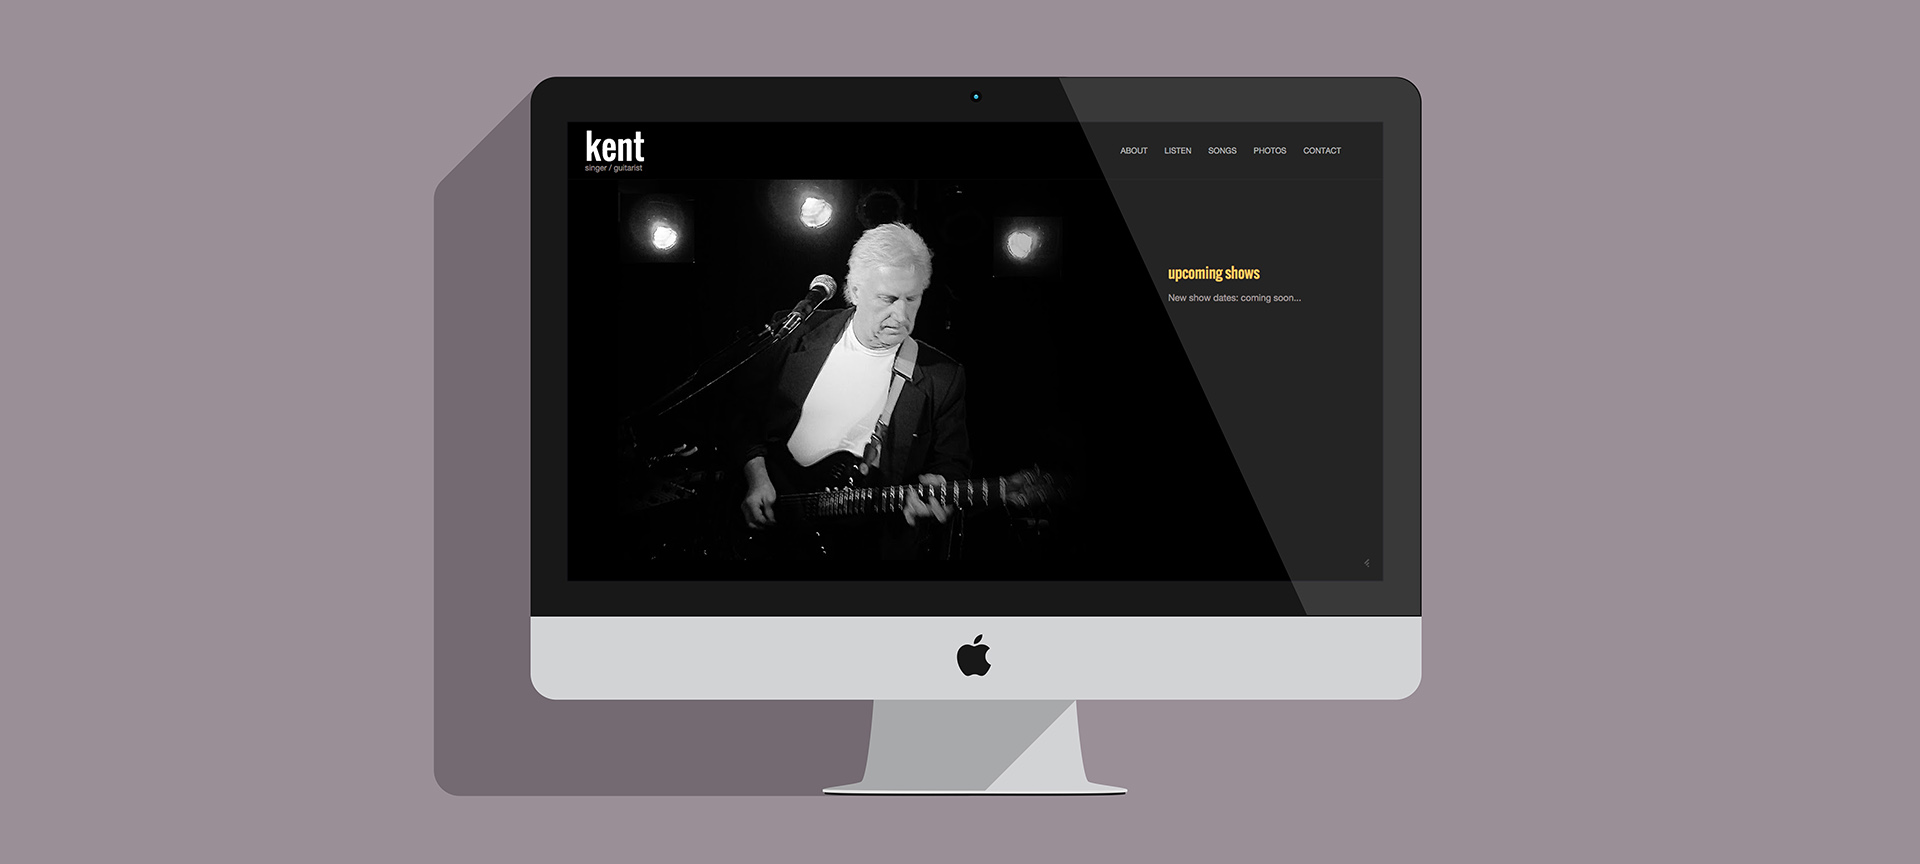
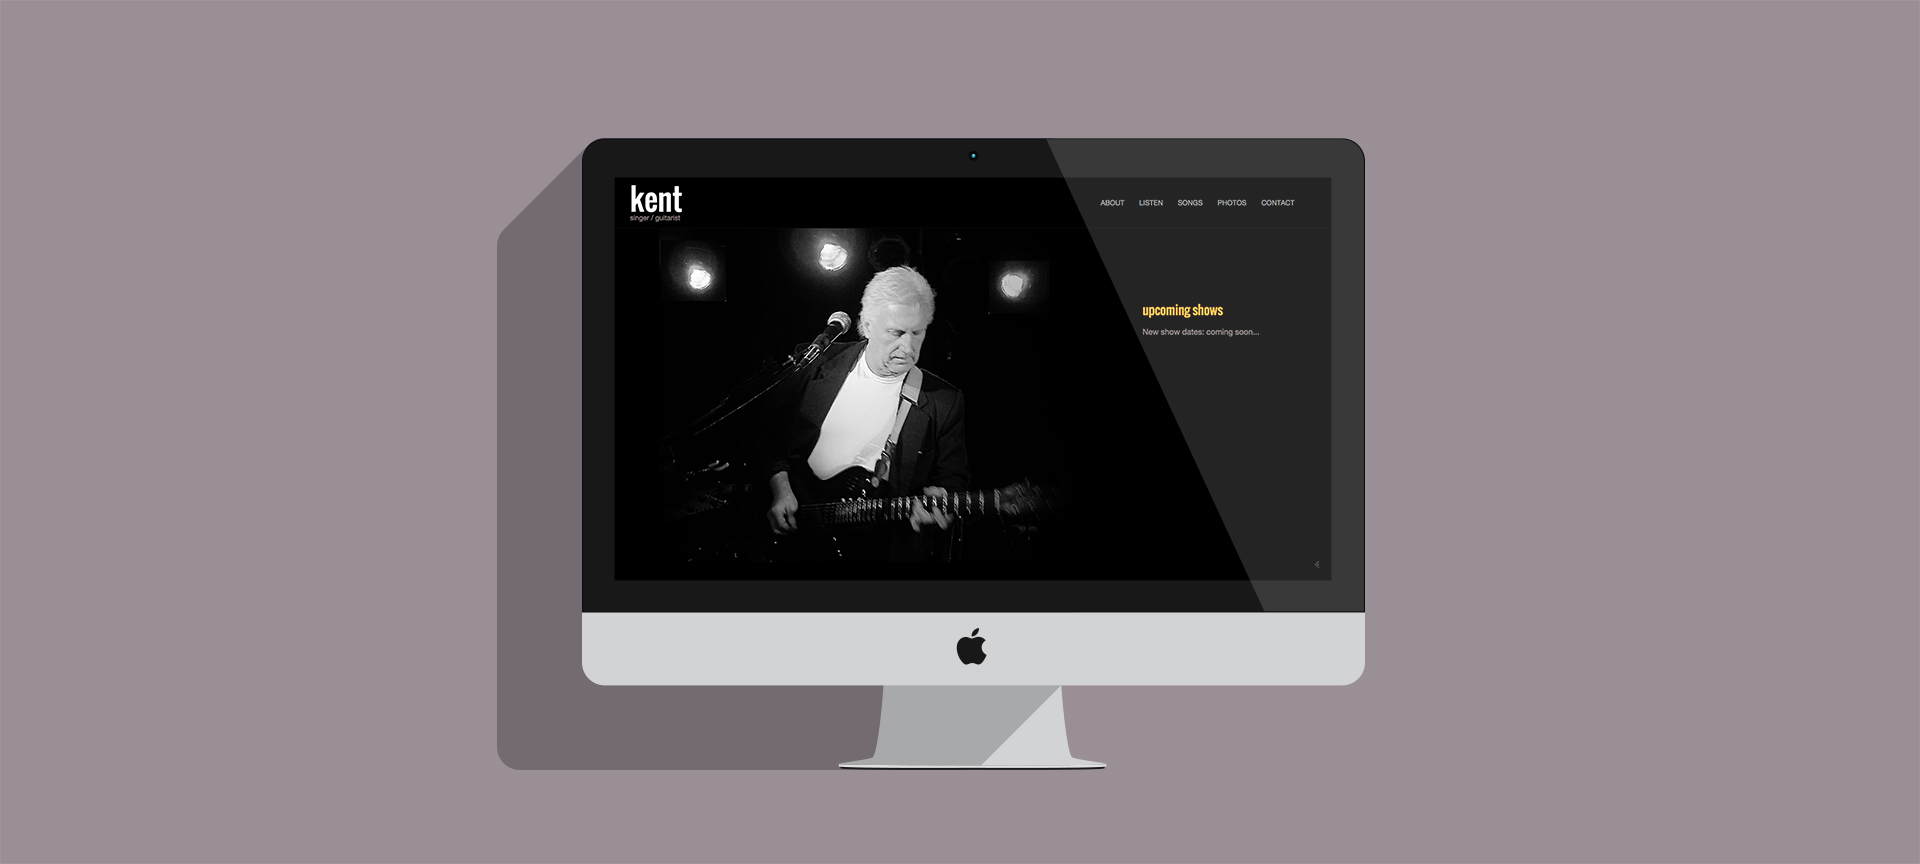
scale all images

Changed region(s): [[0.2188, 0.0625, 0.75, 0.9375]]

diff --git a/thank-you.md b/thank-you.md
@@ -6,4 +6,4 @@ feature-img: "img/blocflix.png"
 hide: true
 ---
 
-I'm so happy you checked out my work. I'm looking forward to chatting with you soon.  
+I've received your message and really appreciate you contacting me; I always love to hear from people! I'm looking forward to chatting with you soon - Jessica  
